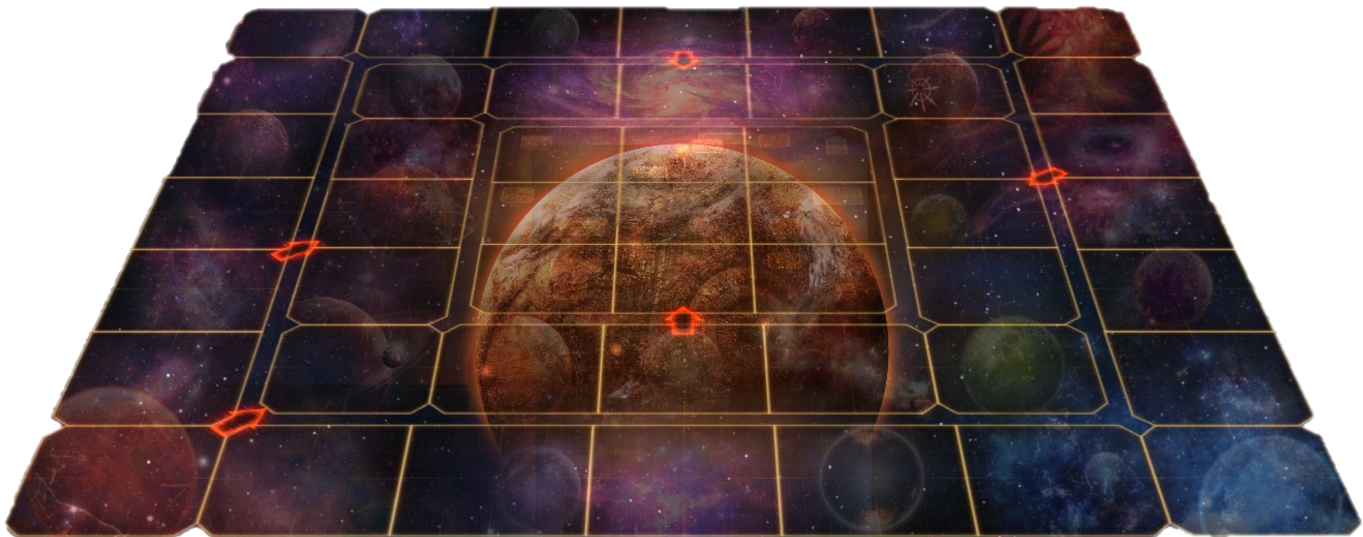
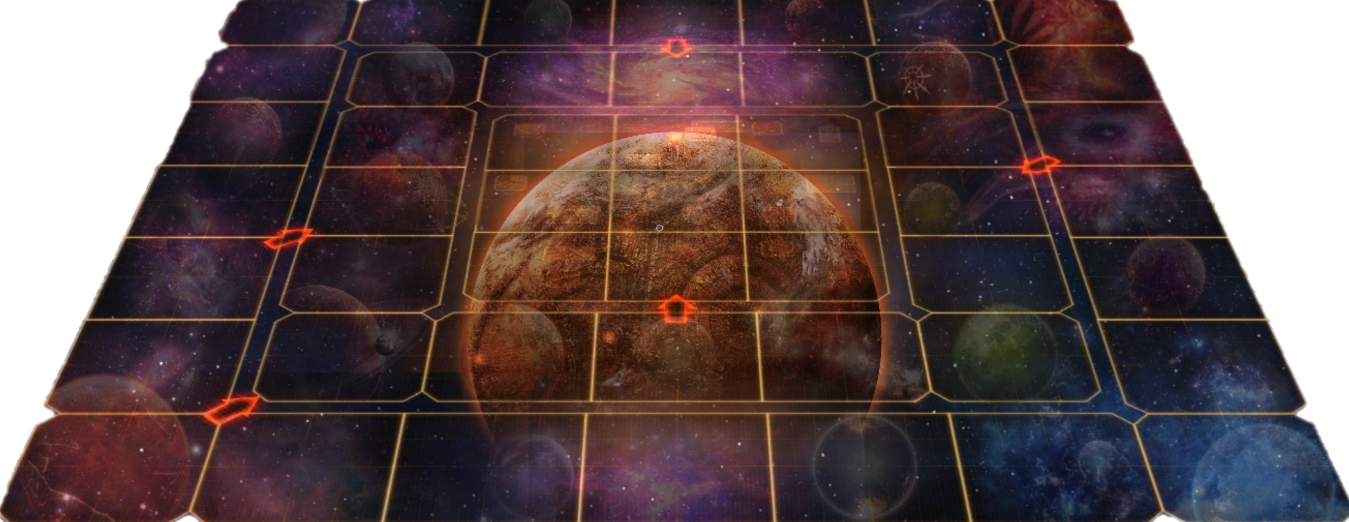
Getting poziom right...

diff --git a/main.py b/main.py
@@ -346,15 +346,15 @@ def looking(mode, mode2):
     #mode: 1 - signle search 2 - all higher then threshold
     #mode2: 0 - normal 1 -top
     #img_rgb = cv2.imread('ssmanipulations/screenshot.bmp')
-    img_rgb = cv2.imread('ssmanipulations/screenshot_small.bmp')
-    img_rgb2 = cv2.imread('ssmanipulations/screenshot_small.bmp',0)
+    img_rgb = cv2.imread('ssmanipulations/screenshot.bmp')
+    img_rgb2 = cv2.imread('ssmanipulations/screenshot.bmp',0)
     img_gray = cv2.cvtColor(img_rgb, cv2.COLOR_BGR2GRAY)
-    template = cv2.imread('ssmanipulations/wholeback.png',0)
+    template = cv2.imread('ssmanipulations/wholeback_2.png',0)
     screen_w, screen_h = img_rgb2.shape[::-1]
     w, h = template.shape[::-1]
 
-    x_to_X_template = 1363/1936
-    y_to_Y_template = 537/1096
+    x_to_X_template = 1349/1936
+    y_to_Y_template = 523/1096
 
     x_to_X_current = w/screen_w
     y_to_Y_current = h/screen_h
@@ -362,6 +362,10 @@ def looking(mode, mode2):
     x_scale = x_to_X_template/x_to_X_current
     y_scale = y_to_Y_template/y_to_Y_current
 
+    print(screen_w)
+    print(screen_h)
+    print(x_scale)
+    print(y_scale)
     # resizing screen for right resoluction
     if (x_scale != 1 and y_scale != 1):
         width = int(template.shape[1] * x_scale)
@@ -525,16 +529,19 @@ def looking(mode, mode2):
                 #print(str(x_for_single) + " " + str(y_for_single))
                 x_cor, y_cor = get_basic_map_points(playable_board_size_x,playable_board_size_y)
 
-                for i in range(len(x_cor)):
+                for j in range(len(y_cor)):
+
                     row_master_cord_matrix = []
-                    for j in range(len(y_cor)):
+                    for i in range(len(x_cor)):
                         temp_matrix = []
                         temp_matrix.append(x_cor[i])
                         temp_matrix.append(y_cor[j])
                         row_master_cord_matrix.append(temp_matrix)
                     master_cord_matrix.append(row_master_cord_matrix)
 
-
+                print(w)
+                print(h)
+                transform_master_matrix(master_cord_matrix,w,h,x_scale,y_scale)
                 for i in range(len(master_cord_matrix)-1):
                     print(master_cord_matrix[i])
                     for j in range(len(master_cord_matrix[i]) - 1):
@@ -568,6 +575,37 @@ def looking(mode, mode2):
 # print (hex(base_addr))
 #
 #
+
+def transform_master_matrix(matrix,width,hight,x_scale,y_scale):
+
+    tg1 = 2.07
+    tg2 = 2.9
+    tg3 = 4.83
+    tg4 = 14.51
+
+    for i in range(len(matrix)):
+        print(matrix[i])
+        for j in range(len(matrix[i])):
+
+            #matrix[i][j][1] = matrix[i][j][1] - round((matrix[i][j][1]/hight))
+            if j == 0:
+                matrix[i][j][0] = matrix[i][j][0] + round((hight / tg1) - (matrix[i][j][1] / tg1))
+            if j == 1:
+                matrix[i][j][0] = matrix[i][j][0] + round((hight / tg2) - (matrix[i][j][1] / tg2))
+            if j == 2:
+                matrix[i][j][0] = matrix[i][j][0] + round((hight / tg3) - (matrix[i][j][1] / tg3))
+            if j == 3:
+                matrix[i][j][0] = matrix[i][j][0] + round((hight / tg4) - (matrix[i][j][1] / tg4))
+            if j == 4:
+                matrix[i][j][0] = matrix[i][j][0] - round((hight / tg4) - (matrix[i][j][1] / tg4))
+            if j == 5:
+                matrix[i][j][0] = matrix[i][j][0] - round((hight / tg3) - (matrix[i][j][1] / tg3))
+            if j == 6:
+                matrix[i][j][0] = matrix[i][j][0] - round((hight / tg2) - (matrix[i][j][1] / tg2))
+            if j == 7:
+                matrix[i][j][0] = matrix[i][j][0] - round((hight / tg1) - (matrix[i][j][1] / tg1))
+
+    #print(matrix)
 
 def get_basic_map_points (x,y):
 
